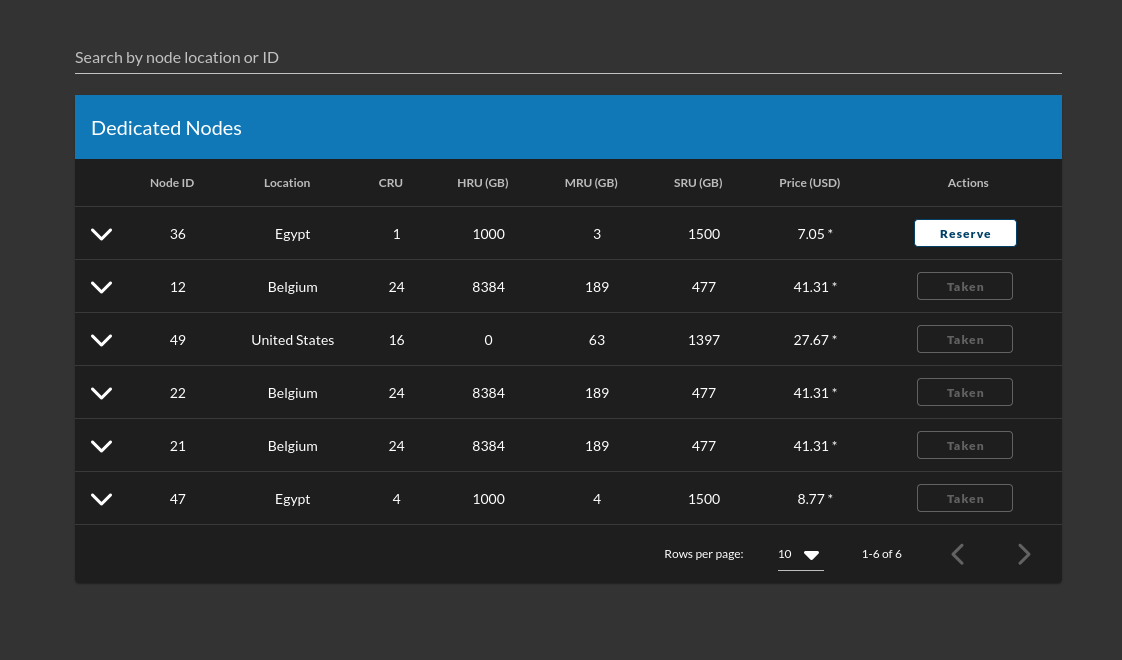
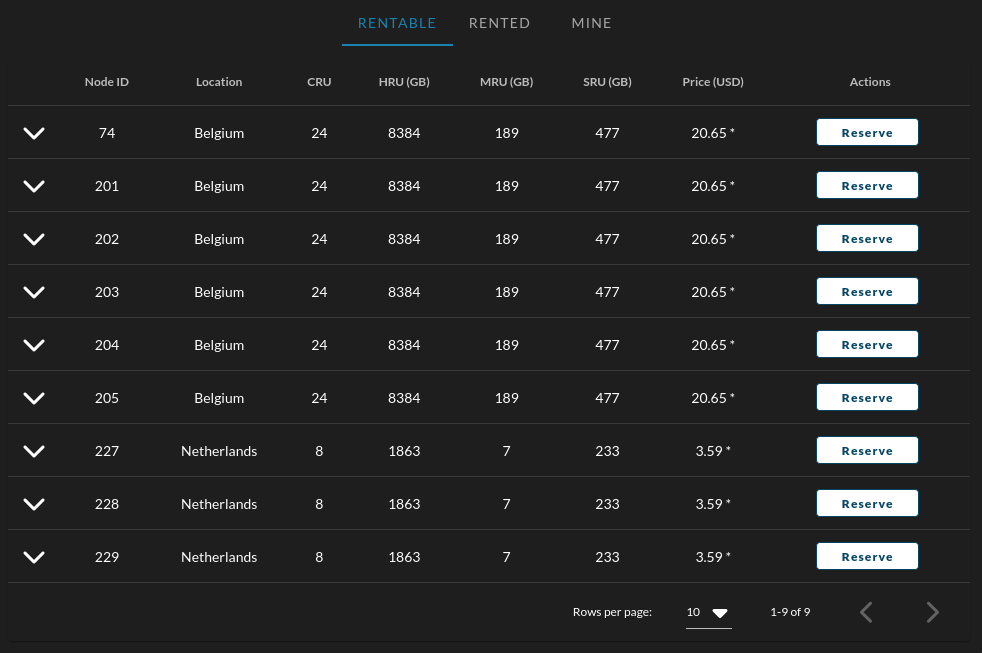
updating the dedicated nodes docs with the updated table

diff --git a/wiki/dashboard/portal/dashboard_portal_dedicated_nodes.md b/wiki/dashboard/portal/dashboard_portal_dedicated_nodes.md
@@ -28,10 +28,11 @@ There is no direct control from the farmer (in the first case the farmer could a
 
 ### Usage
 
-- See list of all dedicated node on `Dedicated Nodes` tab on the portal.
+- See list of all rentable node on `Rentable` tab in the dedicated nodes table.
 
     ![ ](img/dedicated_nodes.png)
   - Hover on price to see discount
+    ![](img/dedicated_nodes_discount.png)
   - Expand row to see more info on the node:
   
     ![ ](img/node_info.png)
@@ -43,12 +44,25 @@ There is no direct control from the farmer (in the first case the farmer could a
     - Free
     - Reserved *Owned by current twin*
     - Taken *Owned by another twin*
+  - You can check the nodes with each of these states in its separate tab.
+    - Rentable
+      This tab shows all of the nodes that can be rented.
+      ![](img/dedicated_nodes.png)
+    - Rented
+      This tab shows all of the nodes that are rented by you or by other users.
+      ![](img/dedicated_nodes_rented.png)
+    - Mine
+      This tab shows nodes that are only rented by you.
+      ![](img/dedicated_nodes_mine.png)
 - Reserve a node:
   - If node is not rented by another twin you can simply click reserve.
   - Type your password on the polkadot pop up window.
   - Wait for the pop up message said `Transaction succeeded`
 
     ![ ](img/rented_succeeded.png)
+  - The node should disappear from the `Rentable` tab.
+  - The node should appear in both the `Rented` & `Mine` tabs
 
 - Unreserve a node:
   - Simply as reserving but another check will be done to check you don't have any active workoad on the node before unreserving.
+  - The node should disappear from both the `Rented` & `Mine` tabs and should reappear in the `Rentable tab`
